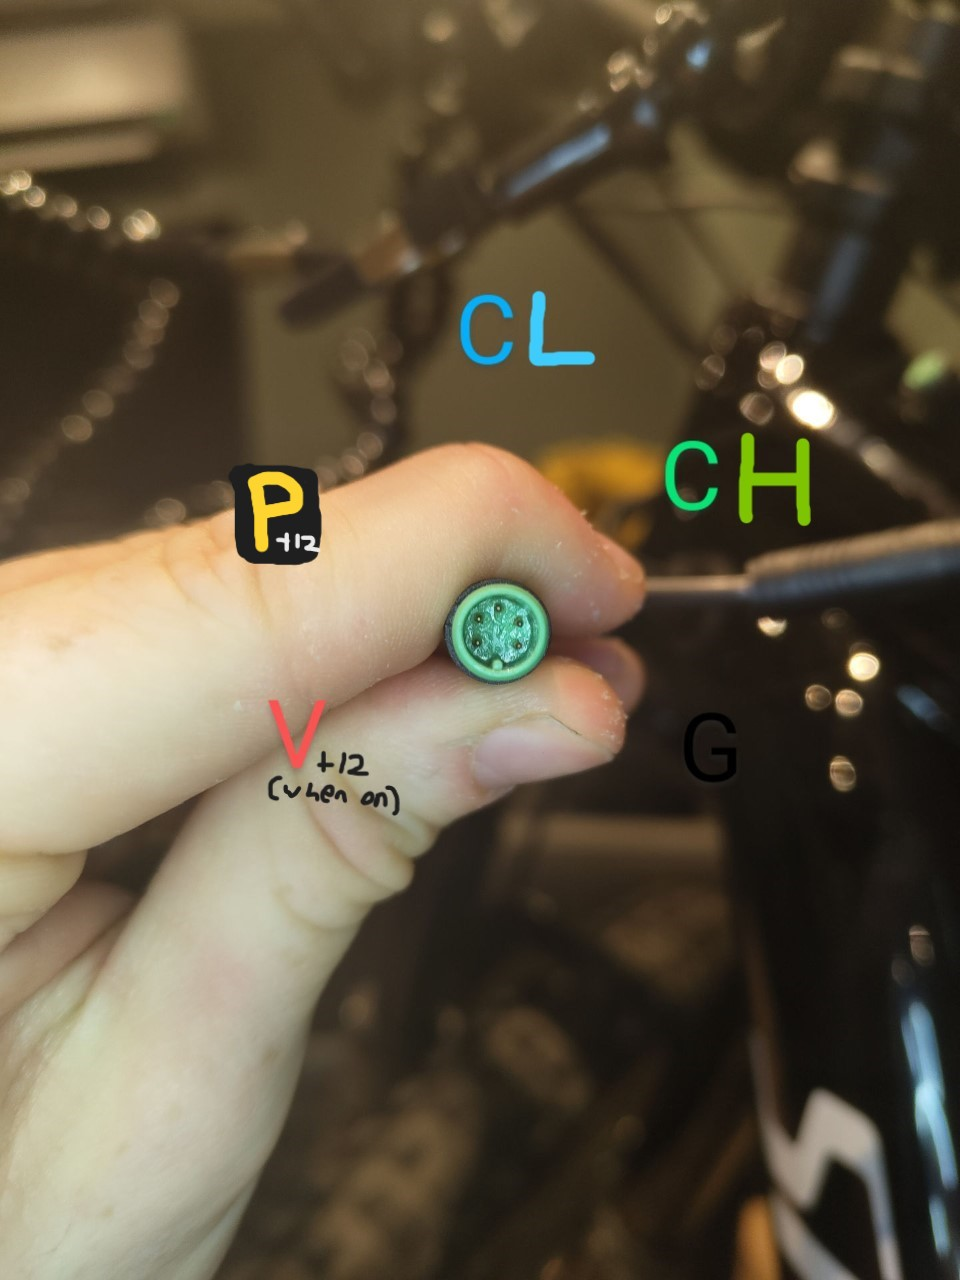
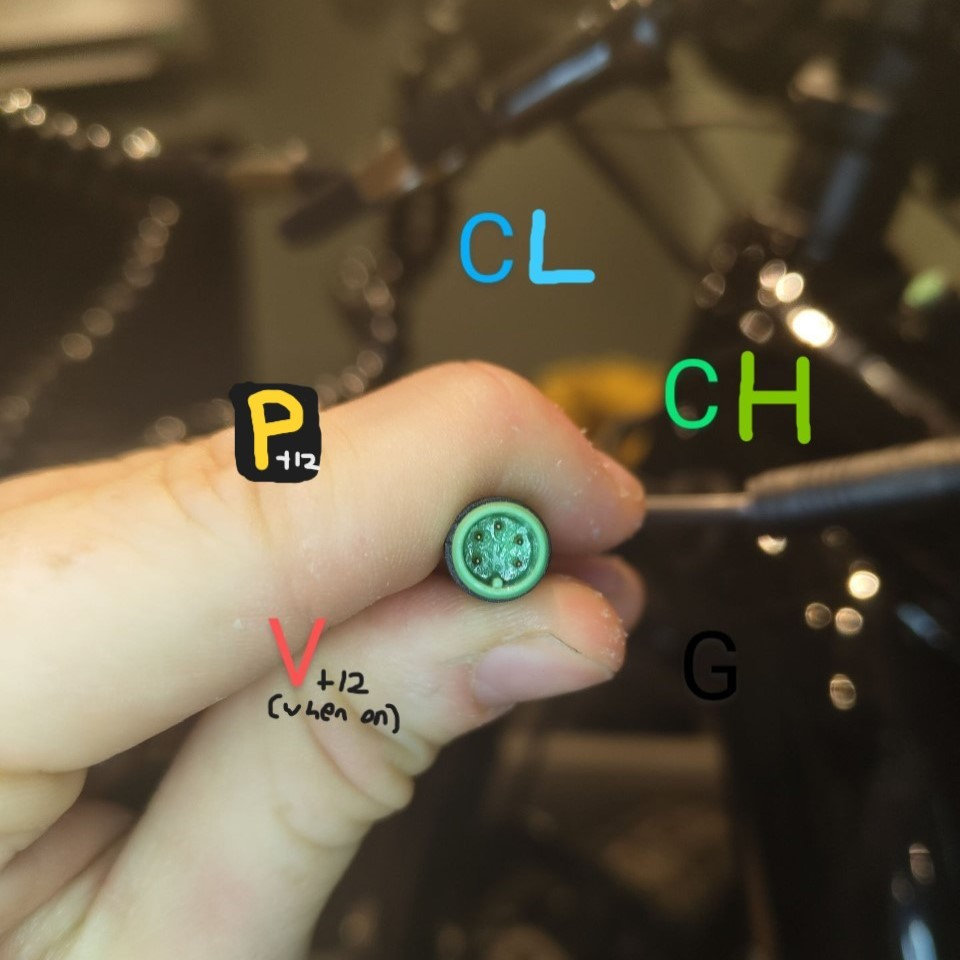
Documented findings (1/3)

diff --git a/Hardware/README.md b/Hardware/README.md
@@ -1,0 +1,71 @@
+<!-- Discuss reverse modeling techniques. -->
+<!-- Mention the places researched for insight on the hardware protocols. -->
+
+# OpenTCU Hardware
+This section contains a brief overview of files and discoveries made about the hardware of the TCU and the reverse engineered models that are used in this project.  
+This directory contains all the hardware related files and images (such as dimensions and TCU hardware) for the OpenTCU project.
+
+- [OpenTCU Hardware](#opentcu-hardware)
+  - [Hardware Breakdown](#hardware-breakdown)
+    - [System Overview](#system-overview)
+    - [Methodology](#methodology)
+  - [Reverse Engineering](#reverse-engineering)
+    - [CAN Bus Wiring](#can-bus-wiring)
+    - [Chogori Connector](#chogori-connector)
+  - [OpenTCU Hardware](#opentcu-hardware-1)
+    - [PCB Design](#pcb-design)
+    - [Electrical Components](#electrical-components)
+    - [OpenTCU Device Images](#opentcu-device-images)
+
+## Hardware Breakdown
+### System Overview
+The Turbo Control Unit (TCU) is the computer that manages the motor and battery of the bike, its purpose is to gather metrics about the system and configure components based on user preferences.  
+Within the TCU system there is the Mastermind TCU, motor, and battery.  
+Through some research online the engineers workbook for the Turbo Levo was found, this document contains a lot of information on the mechanical properties of the bike and hints at the electrical properties. From this it was stated that the TCU system uses the CAN bus protocol to communicate between the components.  
+<img src="ProtocolDiagram.png" alt="Protocol Diagram" width="500"/>  
+
+### Methodology
+When starting this project I had the idea of attempting to extract the firmware from the TCU, I started out by opening the TCU and looking for any debug ports or JTAG headers, however, with my limited hardware knowledge I was unable to find any or risk damaging the TCU, though I did notice some contact pads that look like they could be for debugging or JTAG, however the chip likley has it'd firmware encrypted as after looking up the silkscreen on the chip I found it supports firmware encryption and secure boot.  
+This may be something I revisit in the future, however it will be difficult because through working on this project it appears the TCU plays less of a vital role in the system than I had originally thought, with the motor being the main component that manages the system instead of the TCU providing the motor with instructions, rather the TCU just provides the motor with configuration data.  
+
+With my inability to extract the firmware I decided to focus on using the method that other third party groups have used to communicate with the TCU, acting as a man in the middle (MITM) between the TCU and the motor. This would be a much easier option too because we know the protocol that the TCU uses to communicate with the rest of the system and the TCU can be unplugged from the rest of the system allowing us easy access to the CAN bus wires without having to permanently modify the wiring of the bike.  
+
+As mentioned in the project overview the goal of this project is to eventually fully reverse engineer the TCU so that the bike can operate without the original TCU, both methods of either extracting the firmware or MITM will be useful in achieving this goal as it helps us understand the data that is being sent between the TCU and the motor.
+
+## Reverse Engineering
+### CAN Bus Wiring
+The TCU is connected to the rest of the system through a 6-pin proprietary connector manufactured by Chogori Technologies. In the previously mentioned document it is stated that the TCU is provided 12V by the motor. Further researching the CAN bus protocol, there should be 2 data lines, CANH and CANL, which both run at around 2.5V. To figure out the pinout of the connector. I probed each of the wires with a multimeter, and with the provided information found that the pinout is as follows:  
+<img src="TCU Wiring.jpg" alt="TCU Pinout" height="250"/>
+
+This only tells us part of the wiring though, while we now know which pins are VCC, GND, CANH/L, there is another mystery pin and we are still unsure at this point which CAN wire is high and low.  
+I first decided to figure out what the unknown pin was for, reading back on the handbook it states that the TCU closes a circuit which triggers the system to turn on, from this I assumed that this wire was the power switch, so while the system was off, I connected this pin to ground through a resistor and the system turned on.  
+The next step was to figure out which CAN wire was high and low, to do this I probed the two CAN lines with a digital analyzer and recorded the data on the wires to the Saleae logic software. At this time the data speed was unknown, within the CAN bus protocol there are certain frames that are always 1 bit wide, for example the start of frame bit, knowing that this is 1 bit wide I can measure the time between the start of frame bit and the next bit to determine the speed of the data. The discovered data rate fell very close to one of the standard data rates of the CAN bus protocol, 250kbps. Then to find which wire was the high line I can just analyze the data to see which wire is high when data is known to be high as the other line should be low.  
+With these discoveries I was able to determine the final pinout of the connector and data rate of the CAN bus being 250kbps.  
+<img src="TCU Wiring 2.jpg" alt="TCU Pinout Final" height="250"/>
+
+### Chogori Connector
+Since working on this project I have found where the official connectors can be sourced from, however they are not cheap. Before knowing where to source the connectors I had decided to model the connectors myself so that they could be 3D printed.  
+In order to do this I took various measurements of the connector and had recreated it inside of Blender using geometry nodes so that I could easily tweak parameters to adjust the connector to fit the TCU.  
+*When I get back to working on the connectors I will tidy up the geometry node graph as it is very messy right now.*  
+<img src="ChogoriConnectorModelled.png" alt="Chogori Connector" width="500"/>  
+Getting this model to fit the plugs required a lot of trial and error, printing and adjusting the model until it fit perfectly. I have since managed to print a connector that fits the plugs. The female plug appears different as I decided to use standard female header pins that could be inserted into the female plug after printing to reduce complexity, however this did mean that the tolerances in the print had to be much more accurate, which seems to be a problem with my current resin printer settings due to how small some of the connector holes are resulting in resin curing inside the small holes.
+
+## OpenTCU Hardware
+In order to undergo the MITM method of communication with the system I needed to create a device that would sit on the CAN bus and then read/write messages to the bus. Because the OpenTCU were to act as a man in the middle instead of just another device on the bus it had to be able to intercept messages from the TCU and motor and then relay them to the other device. This has various uses which will be discussed in the software section of this project.  
+
+Size is a very important factor for this device as the space inside the bike is very limited so it is important that the device is as small as possible.
+
+### PCB Design
+Due to my lack of knowledge in electronics I am unable to create a custom board for this project so instead I have attempted to make the OpenTCU as small as possible using off the shelf development boards.  
+The current PCB design is rather simple and is designed to have development boards soldered to it instead of individual components. The footprint of the total device is kept minimal by having designed the PCB to have components on both sides.
+
+### Electrical Components
+I have switched microcontrollers a few times throughout this project, originally I used the ESP32-C3 for it's compact size, however I found that, at least for development, with my logging and the speed of data on the bus it would have to drop frames for being too slow. I then switched to the ESP32-S3, a much more powerful chip with a slightly increased footprint, while this chip was able to keep up with the data on the bus, it was far overpowered for this project and was also more expensive. I then came across the ESP32-C6, a chip that is slightly more powerful than the C3 but equally as small while still being cheaper than the S3. However the major seller for the C6 was that it had two TWAI controllers.  
+This was extremely compelling because most other ESP32 chips only have one CAN controller which meant in order to support two buses I had to use a MCP2515 chip which drastically increased the size of the device, by having two controllers on the chip I could reduce the size of the device and use two of the much smaller CJMCU-1051 boards for the CAN transceivers.  
+The CAN transceivers and microcontroller both require 5V power, however the bike only provides 12V power, so a buck converter is required to step down the voltage to 5V.
+
+### OpenTCU Device Images
+Below are two images of the current revision (V3) of the OpenTCU device:  
+*Due to not being able to replicate my good connector print this example of the board has to have each wire manually connected to the bike instead of via the printed connector.*  
+<img src="OpenTCU V3 Top.png" alt="OpenTCU Hardware Top" height="500"/>
+<img src="OpenTCU V3 Side.png" alt="OpenTCU Hardware Top" height="500"/>

diff --git a/Recordings/README.md b/Recordings/README.md
@@ -1,0 +1,16 @@
+<!-- Discuss the reverse modeling techniques used, what I found out about the data, the protocol and encoding used.  -->
+
+# OpenTCU Software
+This section contains an overview of the process taken to reverse engineer the CAN bus recordings and discoveries about the data that is sent on the bus.
+
+- [OpenTCU Software](#opentcu-software)
+  - [Recording Setup](#recording-setup)
+  - [Data Analysis Process](#data-analysis-process)
+  - [Reversed Data](#reversed-data)
+
+## Recording Setup
+
+## Data Analysis Process
+
+## Reversed Data
+

diff --git a/Software/README.md b/Software/README.md
@@ -1,0 +1,1 @@
+<!-- Discuss the modular design of the project, realtime considerations and data optimizations. -->
